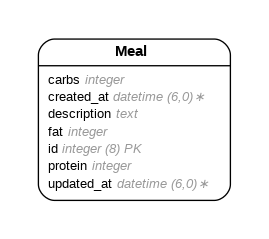
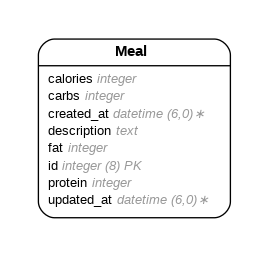
It works!

Changed region(s): [[0.119, 0.1464, 0.8625, 0.8787]]

diff --git a/app/controllers/meals_controller.rb b/app/controllers/meals_controller.rb
@@ -20,9 +20,51 @@ class MealsController < ApplicationController
   def create
     the_meal = Meal.new
     the_meal.description = params.fetch("query_description")
-    the_meal.fat = params.fetch("query_fat")
-    the_meal.carbs = params.fetch("query_carbs")
-    the_meal.protein = params.fetch("query_protein")
+
+    # Use OpenAI to get the values for fat, carbs, protein, calories
+
+    c = OpenAI::Chat.new
+    c.system("You are a nutritionist. Estimate the calories, carbs, protein, and fat in the user's meal.")
+    c.schema = '{
+      "name": "nutrition_info",
+      "strict": true,
+      "schema": {
+        "type": "object",
+        "properties": {
+          "calories": {
+            "type": "number",
+            "description": "The total calories in the food item."
+          },
+          "fat": {
+            "type": "number",
+            "description": "Total fat content in grams."
+          },
+          "carbs": {
+            "type": "number",
+            "description": "Total carbohydrates in grams."
+          },
+          "protein": {
+            "type": "number",
+            "description": "Total protein content in grams."
+          }
+        },
+        "required": [
+          "calories",
+          "fat",
+          "carbs",
+          "protein"
+        ],
+        "additionalProperties": false
+      }
+    }'
+
+    c.user(the_meal.description)
+    meal_info = c.assistant!
+
+    the_meal.fat = meal_info.fetch("fat")
+    the_meal.carbs = meal_info.fetch("carbs")
+    the_meal.protein = meal_info.fetch("protein")
+    the_meal.calories = meal_info.fetch("calories")
 
     if the_meal.valid?
       the_meal.save

diff --git a/db/schema.rb b/db/schema.rb
@@ -10,7 +10,7 @@
 #
 # It's strongly recommended that you check this file into your version control system.
 
-ActiveRecord::Schema[7.1].define(version: 2025_02_28_005212) do
+ActiveRecord::Schema[7.1].define(version: 2025_02_28_005913) do
   # These are extensions that must be enabled in order to support this database
   enable_extension "plpgsql"
 
@@ -21,6 +21,7 @@ ActiveRecord::Schema[7.1].define(version: 2025_02_28_005212) do
     t.integer "protein"
     t.datetime "created_at", null: false
     t.datetime "updated_at", null: false
+    t.integer "calories"
   end
 
 end

diff --git a/app/models/meal.rb b/app/models/meal.rb
@@ -3,6 +3,7 @@
 # Table name: meals
 #
 #  id          :bigint           not null, primary key
+#  calories    :integer
 #  carbs       :integer
 #  description :text
 #  fat         :integer

diff --git a/db/migrate/20250228005913_add_calories_to_meals.rb b/db/migrate/20250228005913_add_calories_to_meals.rb
@@ -1,0 +1,5 @@
+class AddCaloriesToMeals < ActiveRecord::Migration[7.1]
+  def change
+    add_column :meals, :calories, :integer
+  end
+end
